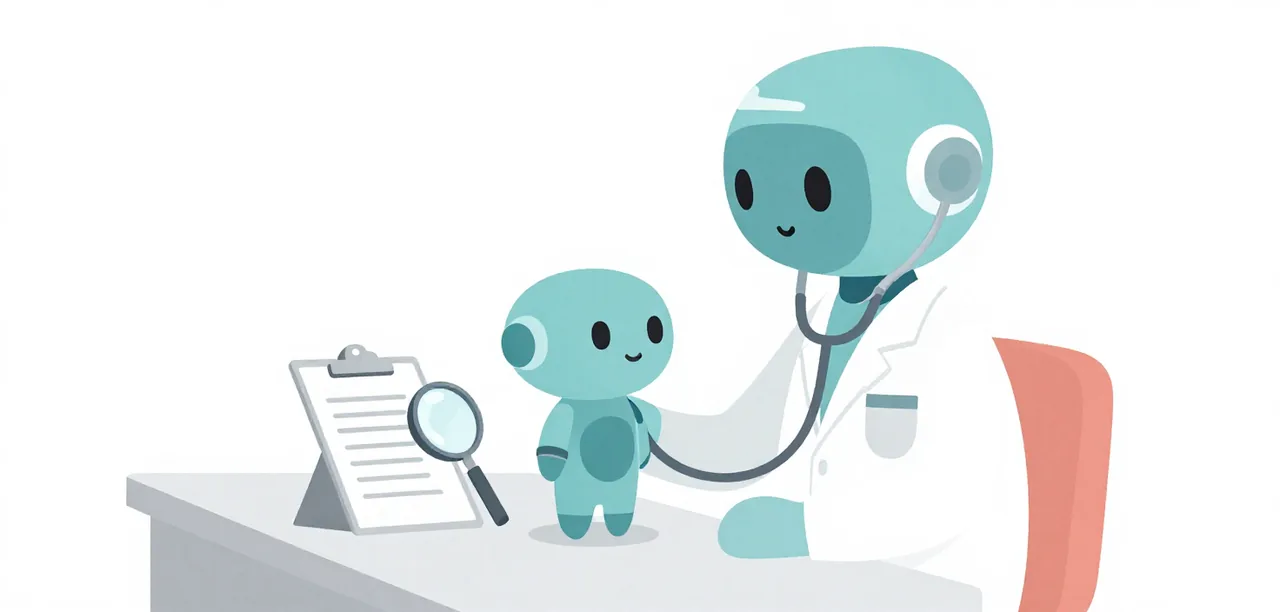
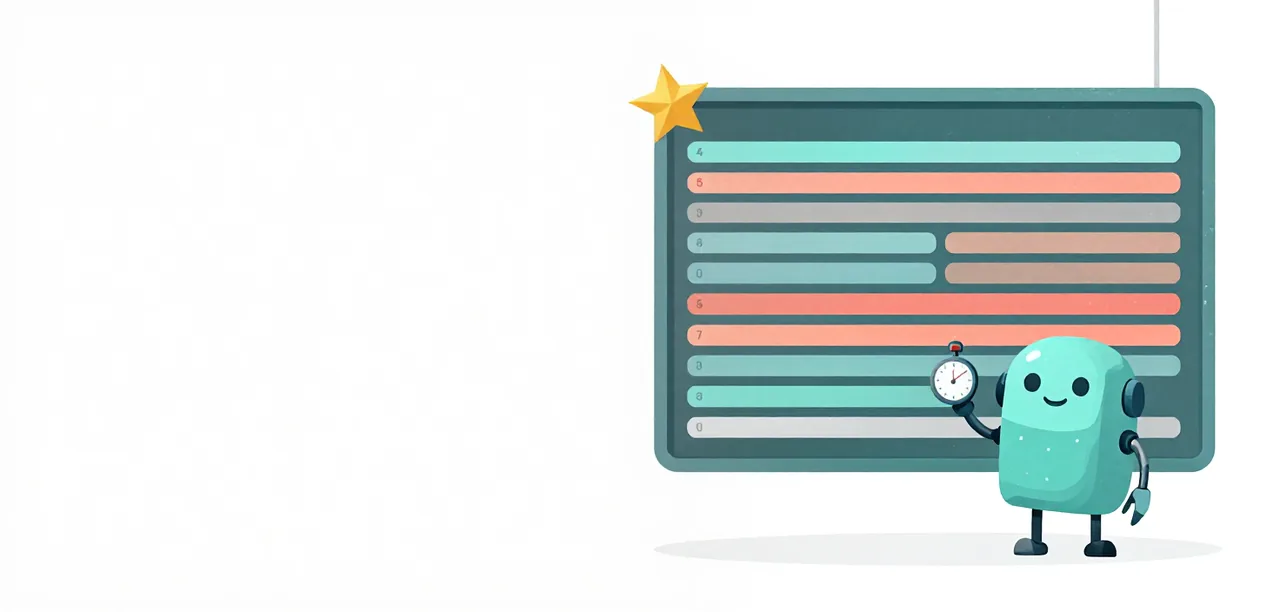
learn: give the scoreboard page its own illustration
scoreboard.webp was a byte-identical copy of pathologies.webp. Regenerate it
from its own prompt — the robot at a leaderboard of coloured ranking bars with a
stopwatch and a gold star — and retune the prompt to keep text and numbers out,
per the shared style.

diff --git a/CHANGELOG.md b/CHANGELOG.md
@@ -6,6 +6,9 @@ Versions match git tags; pin one in both install lines.
 
 ### Fixed
 
+- **The scoreboard page has its own illustration.** `scoreboard.webp` was a
+  byte-for-byte copy of the pathologies image; it is now the leaderboard-and-
+  stopwatch robot its prompt describes.
 - **A current llama-server that reads as too old no longer refuses to start.**
   `backend.py` parsed some Linux `llama-server --version` strings as a build
   below the 9482 minimum and then blocked, so `run.sh` failed with "server did
